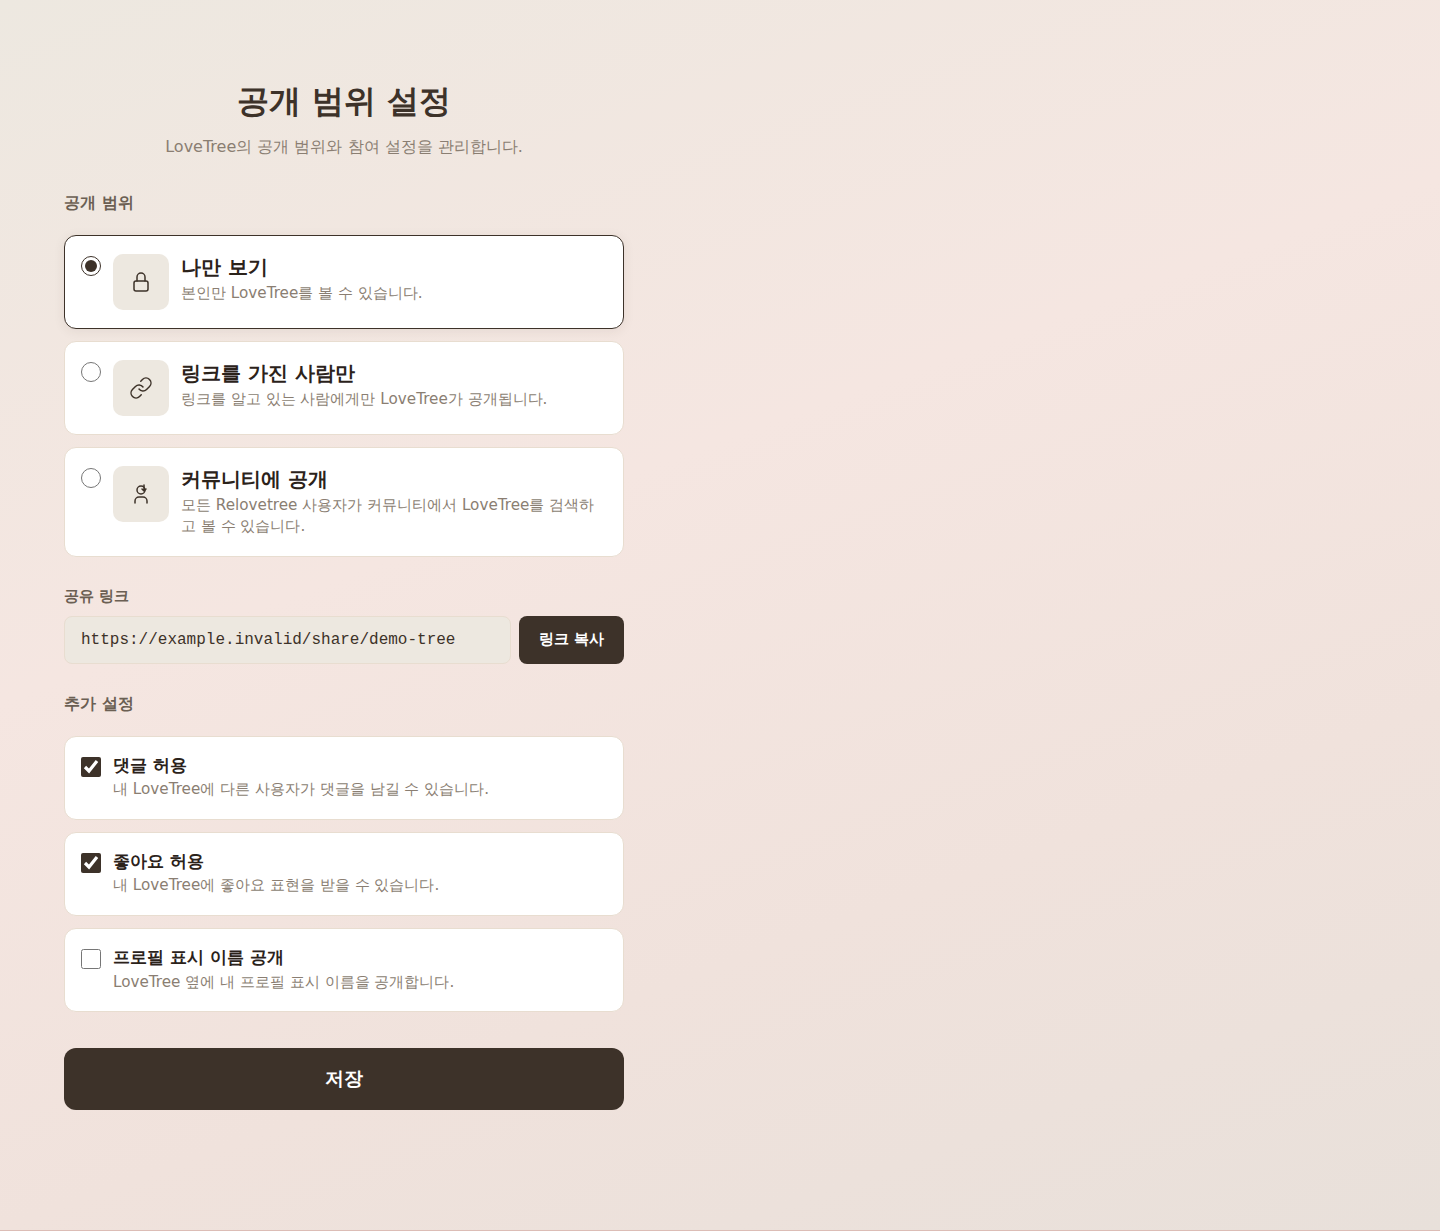
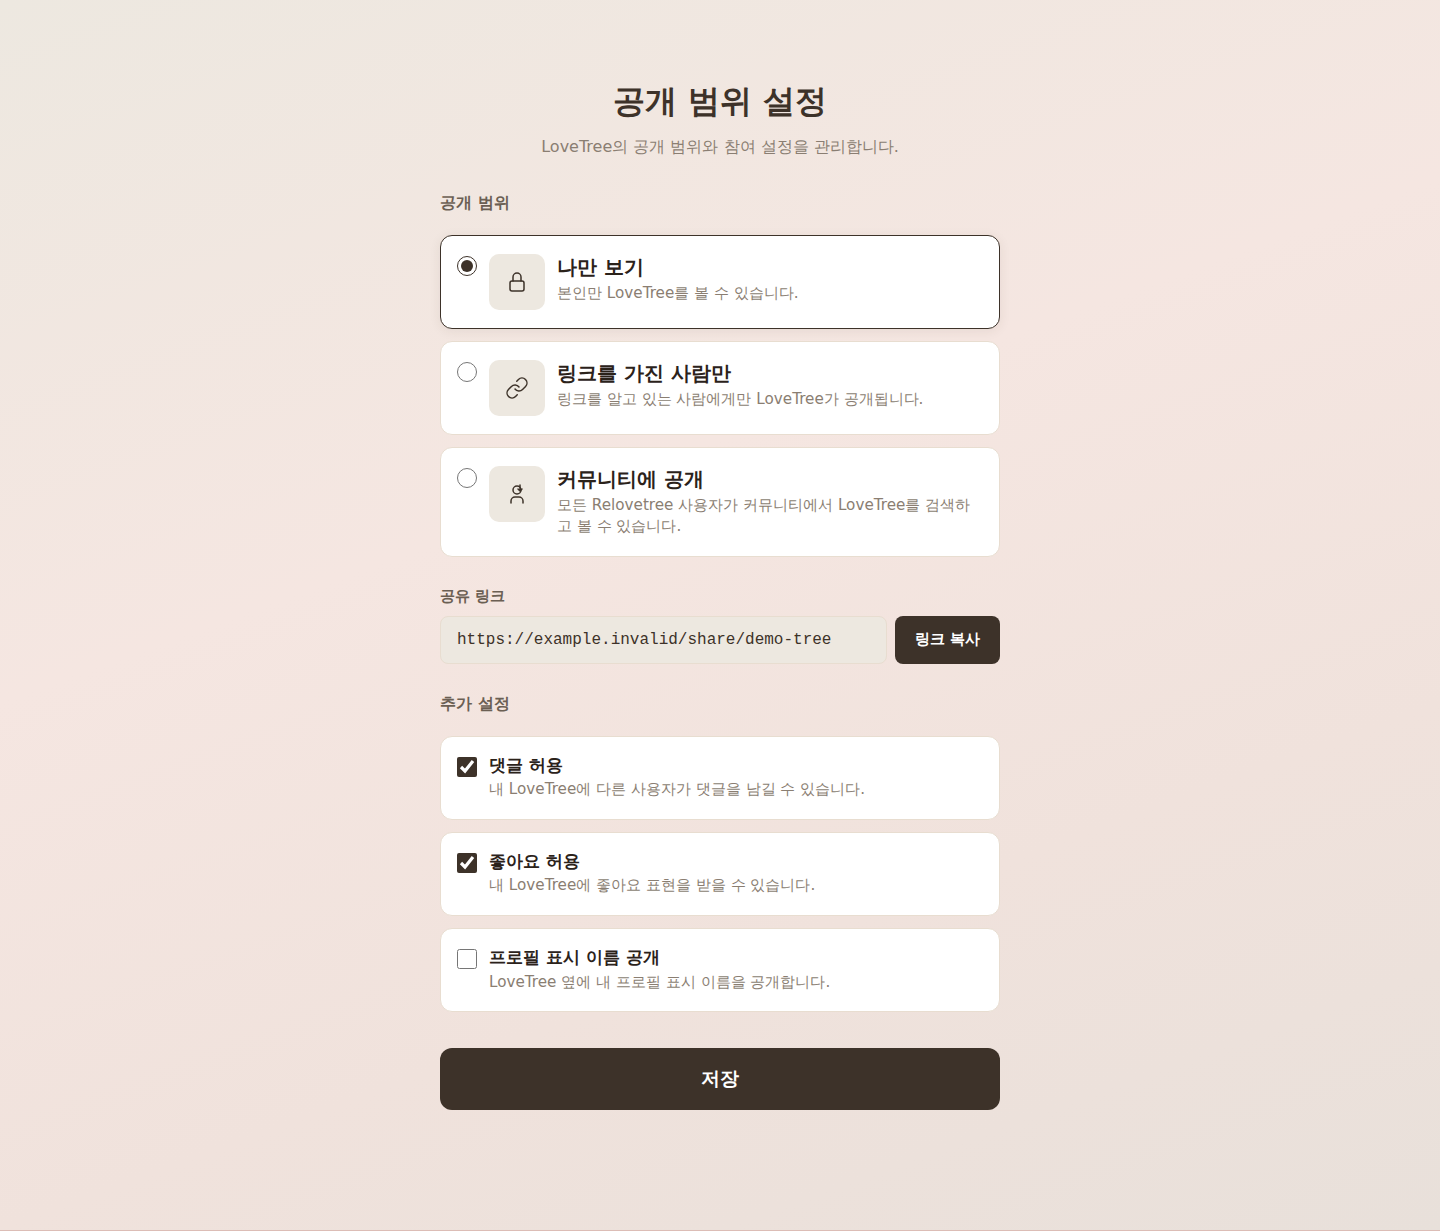
fix: resolve Issue #48 acceptance criteria for LT3-SETTINGS-001 (#50)
Closes #48

diff --git a/src/components/VisibilitySettingsPage.module.css b/src/components/VisibilitySettingsPage.module.css
@@ -188,6 +188,7 @@
 .copyButton {
   flex-shrink: 0;
   padding: 10px 14px;
+  min-height: 44px;
   font-size: clamp(0.75rem, 1vw, 0.85rem);
   font-family: inherit;
   font-weight: 600;
@@ -363,7 +364,7 @@
     max-width: 1440px;
     margin: 0 auto;
     padding: clamp(48px, 10vw, 80px) clamp(32px, 6vw, 64px) clamp(60px, 12vw, 100px);
-    align-items: flex-start;
+    align-items: center;
   }
 
   .topBar {

diff --git a/docs/evidence/visibility-settings-visual/evidence-metadata.md b/docs/evidence/visibility-settings-visual/evidence-metadata.md
@@ -10,12 +10,23 @@
 
 | Field | Value |
 |---|---|
-| Branch | `style/visibility-settings-visual-refinement` |
-| Base SHA | `9a03d8cd8c1420f25f1281e889746669f3f8e73d` |
-| Final SHA | `b10281c6f320719ed8bcfee5e77a17daa2832273` |
-| Screenshot source | `https://style-visibility-settings-vi.lovetree3.pages.dev/settings/visibility-demo` (Cloudflare branch preview) |
+| Branch | `fix/visibility-settings-acceptance-48` |
+| Base main SHA | `67c680ec9d14f1b948f992f376b4f258de0010b9` |
+| Screenshot source SHA | `e652909ab7ebc00174d536d18f11d20f744f22ac` |
+| Evidence commit SHA | `df8a54a85df37f080a1ce65aff2122ae244da19b` |
+| Cloudflare deployed commit | `e652909ab7ebc00174d536d18f11d20f744f22ac` |
+| Actual capture URL | `https://fix-visibility-settings-acce.lovetree3.pages.dev/settings/visibility-demo` |
 | Build verification | GitHub Actions SUCCESS |
-| Cloudflare deployment | SUCCESS (deployed commit `b10281c`) |
+| Cloudflare deployment | SUCCESS (deployed commit `e652909`) |
+
+## SHA Record (separate)
+
+| SHA Type | Value |
+|---|---|
+| Base main SHA | `67c680ec9d14f1b948f992f376b4f258de0010b9` |
+| Screenshot source SHA | `e652909ab7ebc00174d536d18f11d20f744f22ac` |
+| Evidence commit SHA | `df8a54a85df37f080a1ce65aff2122ae244da19b` |
+| Cloudflare deployed commit | `e652909ab7ebc00174d536d18f11d20f744f22ac` |
 
 ## Screenshot Details
 
@@ -24,24 +35,24 @@
 | Property | Value |
 |---|---|
 | Dimensions | 1440 × 1231px |
-| File size | 286,681 bytes |
[1 lines of base64/hex data omitted]
+| File size | 287,718 bytes |
[1 lines of base64/hex data omitted]
 
 ### Intermediate 900x-full.png
 
 | Property | Value |
 |---|---|
 | Dimensions | 900 × 1210px |
-| File size | 194,859 bytes |
[1 lines of base64/hex data omitted]
+| File size | 195,070 bytes |
[1 lines of base64/hex data omitted]
 
 ### Mobile 390x-full.png
 
 | Property | Value |
 |---|---|
-| Dimensions | 390 × 963px |
-| File size | 103,475 bytes |
[1 lines of base64/hex data omitted]
+| Dimensions | 390 × 970px |
+| File size | 103,670 bytes |
[1 lines of base64/hex data omitted]
 
 ## Capture Environment
 
@@ -91,7 +102,7 @@
 |---|---|---|---|
 | Copy button | Desktop 1440px | 105 × 49px | ✅ |
 | Copy button | Intermediate 900px | 105 × 49px | ✅ |
-| Copy button | Mobile 390px | 80 × 37px | ⚠ Below 44px |
+| Copy button | Mobile 390px | 80 × 44px | ✅ |
 | Save button | Desktop 1440px | 560 × 62px | ✅ |
 | Save button | Intermediate 900px | 560 × 62px | ✅ |
 | Save button | Mobile 390px | 366 × 49px | ✅ |
@@ -114,7 +125,6 @@
 | alertdialog | 0 |
 
 ## Known Differences from Reference
-
 See `known-visual-differences.md` for detailed analysis of intentional differences from the reference image.
 
 ### Key Differences
@@ -123,4 +133,5 @@ See `known-visual-differences.md` for detailed analysis of intentional differenc
 2. **Description**: Added paragraph below title for context
 3. **Selection indicator**: Enhanced visual feedback for selected radio (CSS :has() selector)
 4. **Share link input**: Distinct background to indicate read-only state
-5. **Desktop layout**: Content left-aligned within centered page container (max-width 560px at 900px+)
+5. **Desktop layout**: Content centered within page container (max-width 560px at 900px+)
+6. **Copy button**: min-height 44px for WCAG touch target compliance at mobile

diff --git a/docs/evidence/visibility-settings-visual/visual-validation.md b/docs/evidence/visibility-settings-visual/visual-validation.md
@@ -4,16 +4,18 @@
 
 | File | Dimensions | SHA-256 |
 |---|---|---|
[6 lines of base64/hex data omitted]
 
-**Captured from:** `https://style-visibility-settings-vi.lovetree3.pages.dev/settings/visibility-demo`  
-**Code commit SHA:** `b10281c6f320719ed8bcfee5e77a17daa2832273`  
+**Captured from:** `https://fix-visibility-settings-acce.lovetree3.pages.dev/settings/visibility-demo`  
+**Code commit SHA:** `e652909ab7ebc00174d536d18f11d20f744f22ac`  
+**Base main SHA:** `67c680ec9d14f1b948f992f376b4f258de0010b9`  
+**Cloudflare deployed commit:** `e652909ab7ebc00174d536d18f11d20f744f22ac`  
 **Browser:** Chromium (Playwright headless)  
 **Viewport DPR:** 1x (all viewports)
 
-**Note:** Cloudflare Pages deployment successful (deployed commit `b10281c`). Screenshots captured from branch preview URL.  
+**Note:** Cloudflare Pages deployment successful (deployed commit `e652909`). Screenshots captured from branch preview URL.
 
 ---
 
@@ -22,8 +24,8 @@
 ### Layout
 
 - [x] Mobile 390px: single column, no horizontal overflow
-- [x] Desktop 1440px: left-aligned content within centered page, max-width 560px
-- [x] Intermediate 900px: left-aligned content within centered page, max-width 560px
+- [x] Desktop 1440px: centered content within page container, max-width 560px
+- [x] Intermediate 900px: centered content within page container, max-width 560px
 - [x] Save button does not overlap or cover content
 
 ### Top Area
@@ -83,7 +85,7 @@
 - [x] Save button: 366×49px (mobile), 560×62px (desktop) — ≥44px
 - [x] Option card: ~336×72px+ — ≥44px
 - [x] Setting row: ~336×72px+ — ≥44px
-- [ ] Copy button: 80×37px (mobile) — **below 44px**; 105×49px (desktop) — ≥44px
+- [x] Copy button: 80×44px (mobile) — ≥44px; 105×49px (desktop) — ≥44px
 
 ---
 
@@ -95,4 +97,4 @@
 | Test files | 1 |
 | Lint | 0 errors |
 | Typecheck | clean |
-| Build | success |
+| Build | success

diff --git a/docs/evidence/visibility-settings-visual/known-visual-differences.md b/docs/evidence/visibility-settings-visual/known-visual-differences.md
@@ -2,8 +2,10 @@
 
 ## Screen: LT3-SETTINGS-001 (`/settings/visibility-demo`)
 
-**Evidence captured from:** `https://style-visibility-settings-vi.lovetree3.pages.dev/settings/visibility-demo`  
-**Code commit SHA:** `b10281c6f320719ed8bcfee5e77a17daa2832273`  
+**Evidence captured from:** `https://fix-visibility-settings-acce.lovetree3.pages.dev/settings/visibility-demo`  
+**Code commit SHA:** `e652909ab7ebc00174d536d18f11d20f744f22ac`  
+**Base main SHA:** `67c680ec9d14f1b948f992f376b4f258de0010b9`  
+**Cloudflare deployed commit:** `e652909ab7ebc00174d536d18f11d20f744f22ac`  
 **Captured:** 2026-07-23
 
 **Note:** Cloudflare Pages deployment successful. Screenshots captured from branch preview URL.
@@ -19,6 +21,8 @@
 | Radio selection indicator | Card border/shadow | CSS selector for selected state | Visual clarity for selected option |
 | Share link input | Read-only | Read-only with distinct background | Visually indicates non-editable state |
 | Icon colors | Mixed | Consistent #3d3229 stroke | Unified icon styling |
+| Desktop layout | Left-aligned | Centered within page container | Issue #48 acceptance: balanced viewport centering at 900px+ |
+| Copy button height | — | min-height 44px | Issue #48 acceptance: WCAG touch target compliance at mobile |
 
 ---
 
@@ -32,7 +36,7 @@
 - Mobile-first single column layout
 - Intermediate and Desktop responsive layouts
 - No horizontal overflow at any viewport
-- Touch targets 44px or larger (except copy button at mobile: 37px)
+- Touch targets 44px or larger (including copy button at mobile: 44px)
 - 0 side effects (fetch, storage, clipboard, navigation)
 - 0 console errors or failed requests
 
@@ -42,9 +46,9 @@
 
 | Viewport | Behavior |
 |---|---|
-| Mobile 390px | Single column, content flows naturally |
-| Intermediate 900px | Left-aligned content within centered page, max-width 560px |
-| Desktop 1440px | Left-aligned content within centered page, max-width 560px, larger typography |
+| Mobile 390px | Single column, content flows naturally, centered |
+| Intermediate 900px | Centered content within page container, max-width 560px |
+| Desktop 1440px | Centered content within page container, max-width 560px, larger typography |
 
 ---
 
